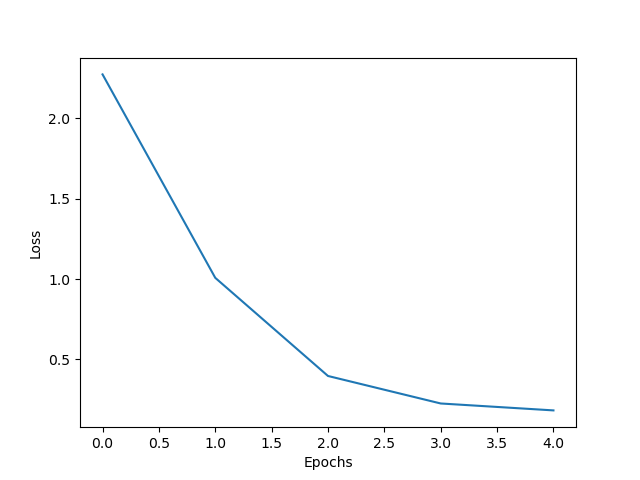
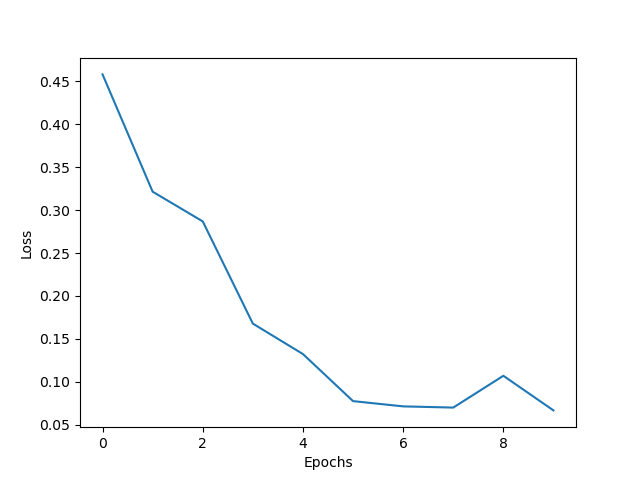
final touches

diff --git a/scripts/gpt_finetuning.py b/scripts/gpt_finetuning.py
@@ -20,9 +20,9 @@ from typing import Union, Optional
 def main():
     #============== Config =============
     set_seed(np.random.randint(0, 10000))
-    epochs = 5
+    epochs = 10
     batch_size = 16
-    max_length = 50
+    max_length = 100
     device = torch.device('cuda' if torch.cuda.is_available() else 'cpu')
     model_name_or_path = 'gpt2'
     labels_ids = {'0': 0, '1': 1}

diff --git a/scripts/mlp_training.py b/scripts/mlp_training.py
@@ -35,7 +35,7 @@ def plot_acc(data : dict):
         plt.close()
 
 def main():
-    size = 1000
+    size = 500
     ratio = 0.1
     EVAL_STEP = 2
     batch_size = 64
